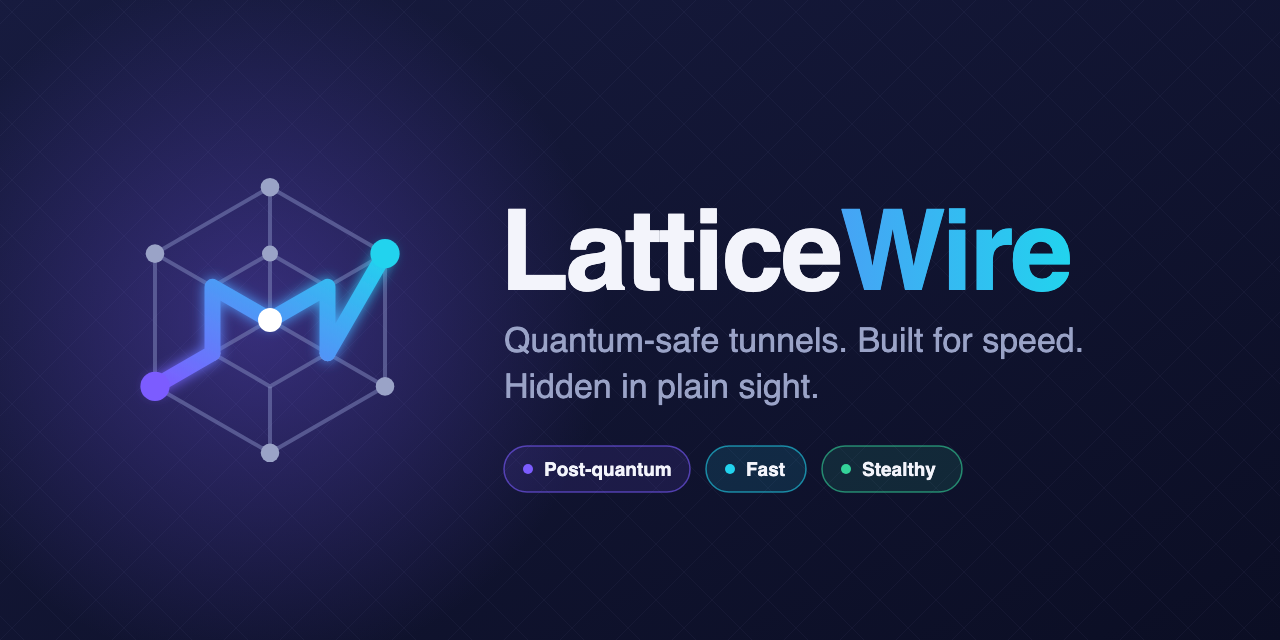
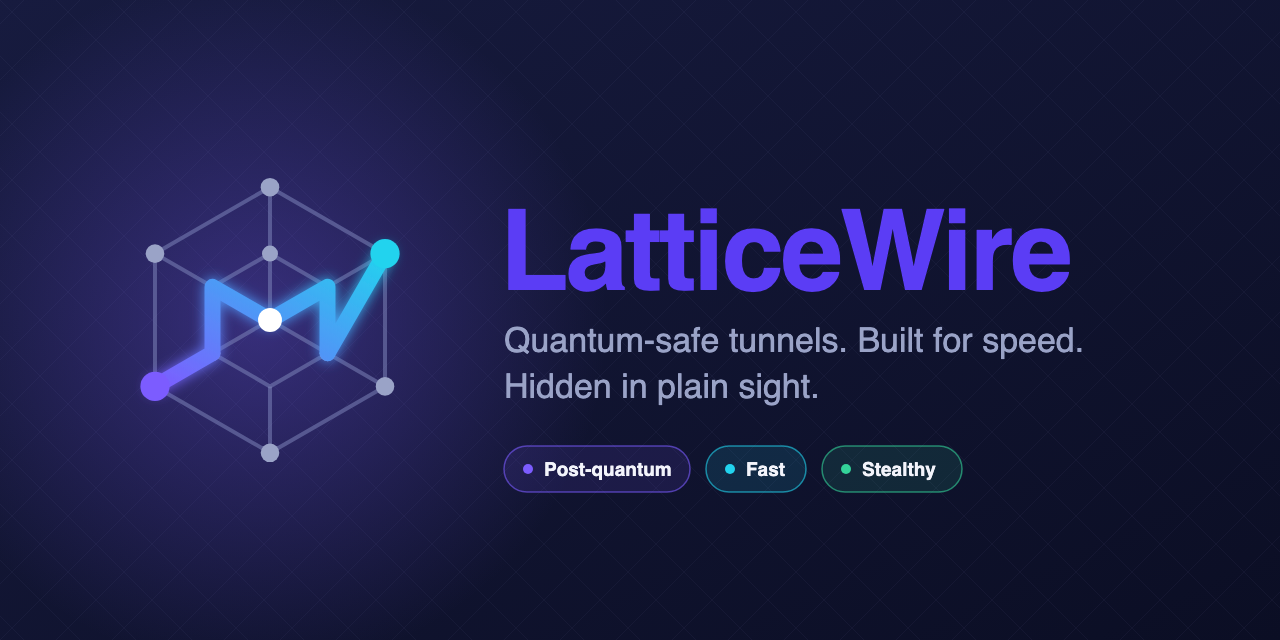
Wordmark in the hero purple

Changed region(s): [[0.375, 0.3125, 0.8438, 0.4688]]

diff --git a/styles.css b/styles.css
@@ -62,8 +62,8 @@ p { margin: 0; }
   border-bottom: 1px solid var(--line-soft);
 }
 /* Wordmark: Sora Bold, tightly tracked, beside the lattice mark. */
-.brand { display: inline-flex; align-items: center; gap: 0.7rem; color: var(--ink); text-decoration: none; font: 700 1.3rem/1 "Sora", var(--body); letter-spacing: -0.045em; }
-.brand b { font-weight: 700; background: var(--wire); -webkit-background-clip: text; background-clip: text; color: transparent; }
+.brand { display: inline-flex; align-items: center; gap: 0.7rem; color: var(--violet); text-decoration: none; font: 700 1.3rem/1 "Sora", var(--body); letter-spacing: -0.045em; }
+.brand b { font-weight: 700; }
 .footer .brand { font-size: 1.12rem; }
 
 .nav nav { display: flex; gap: 1.6rem; margin-left: auto; }
